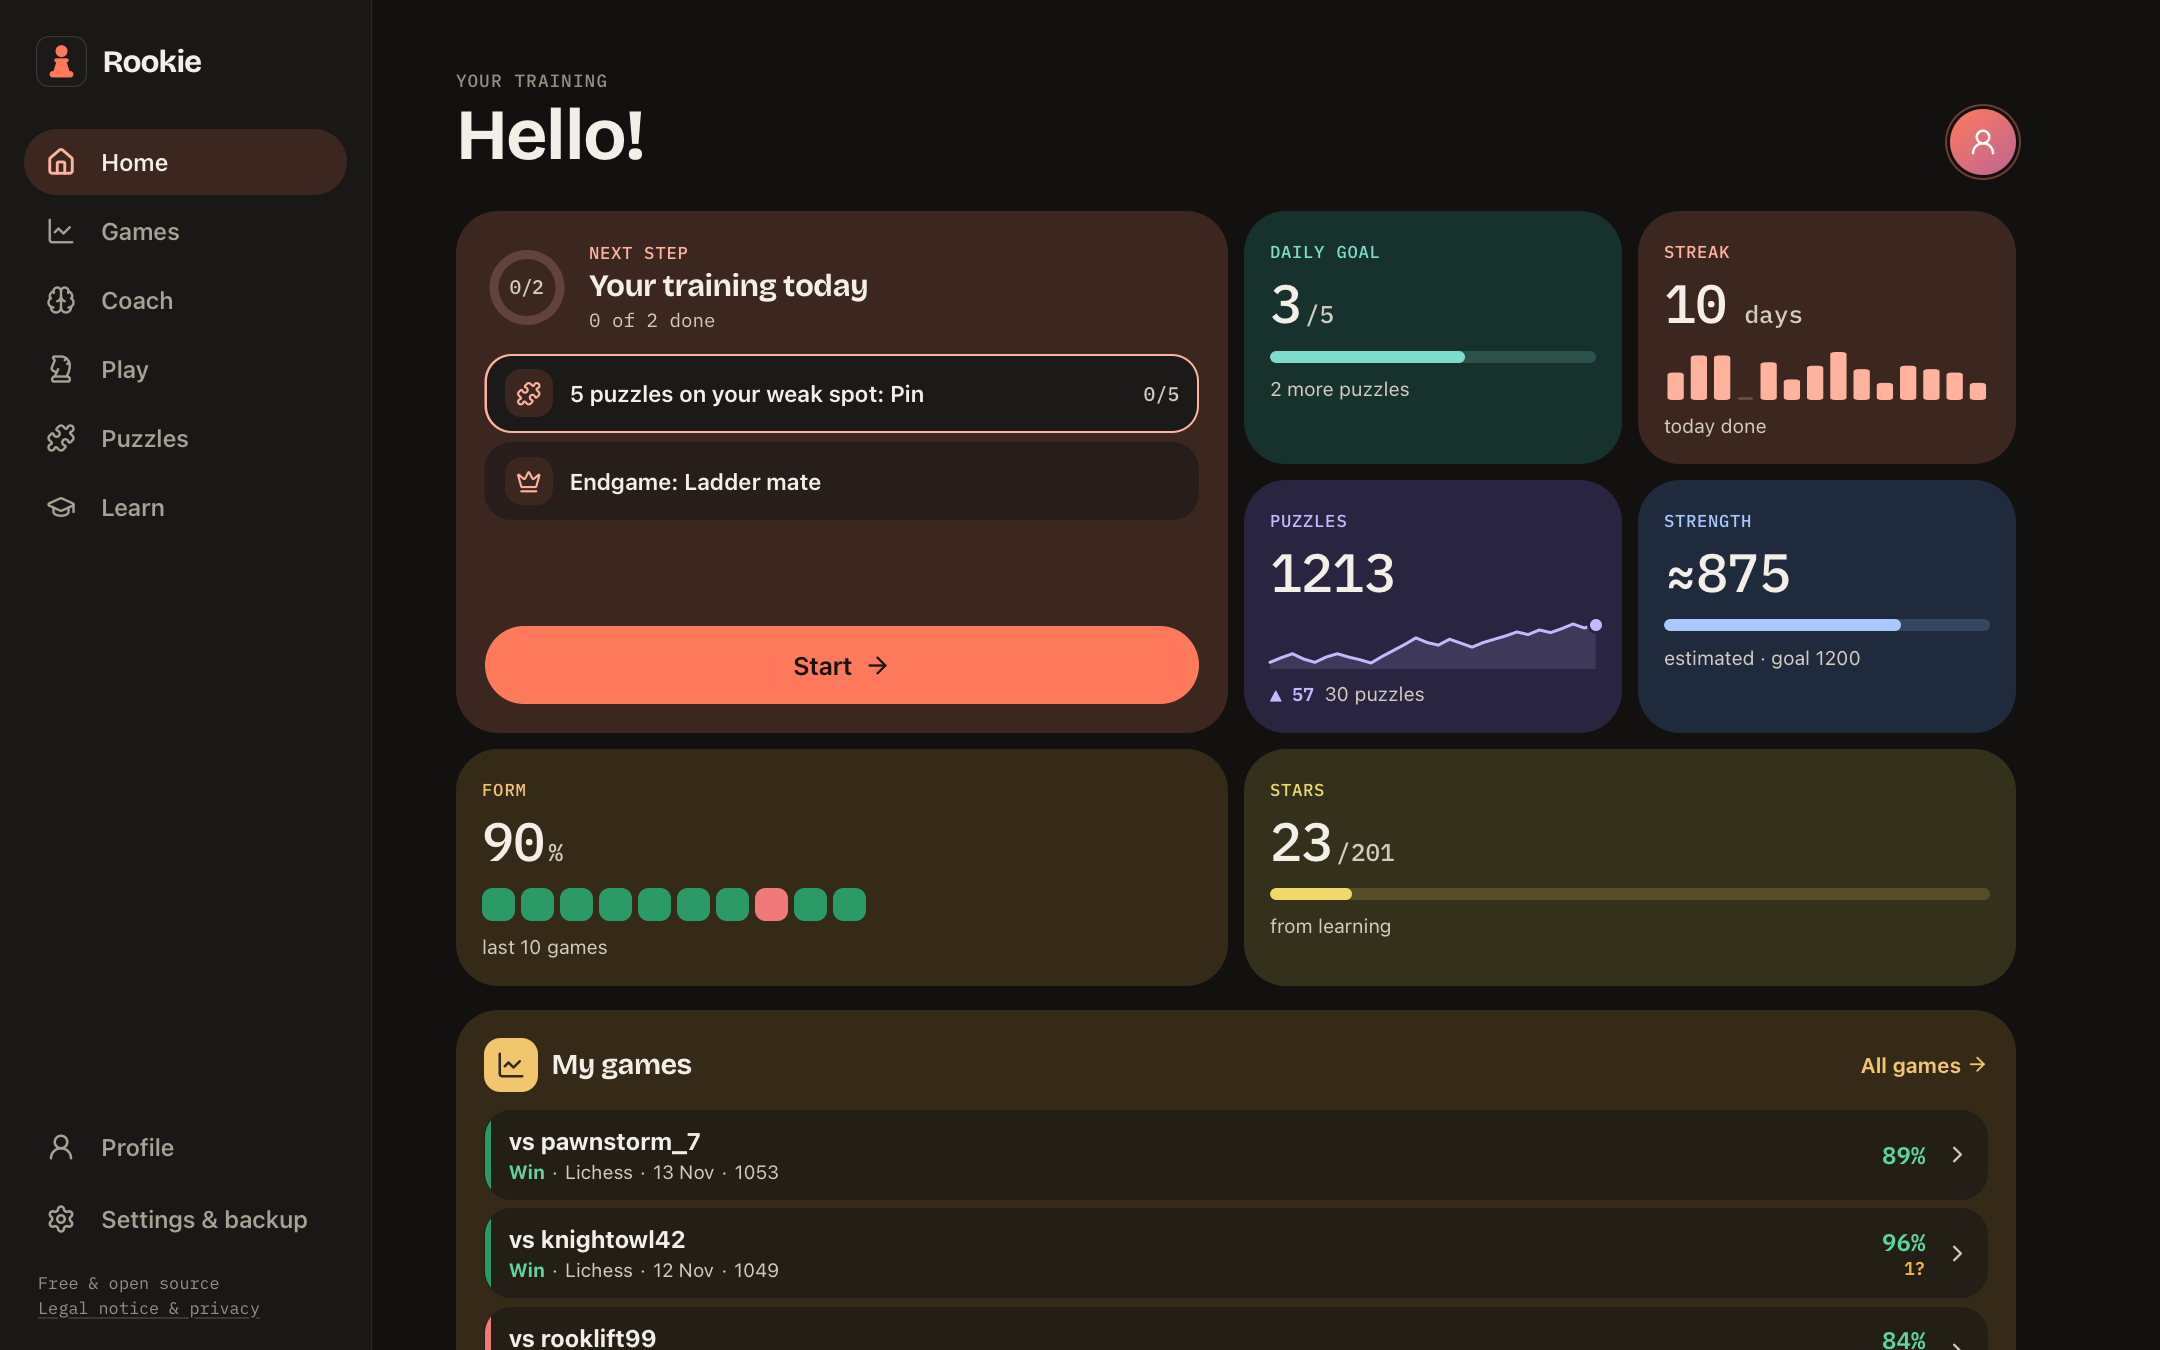
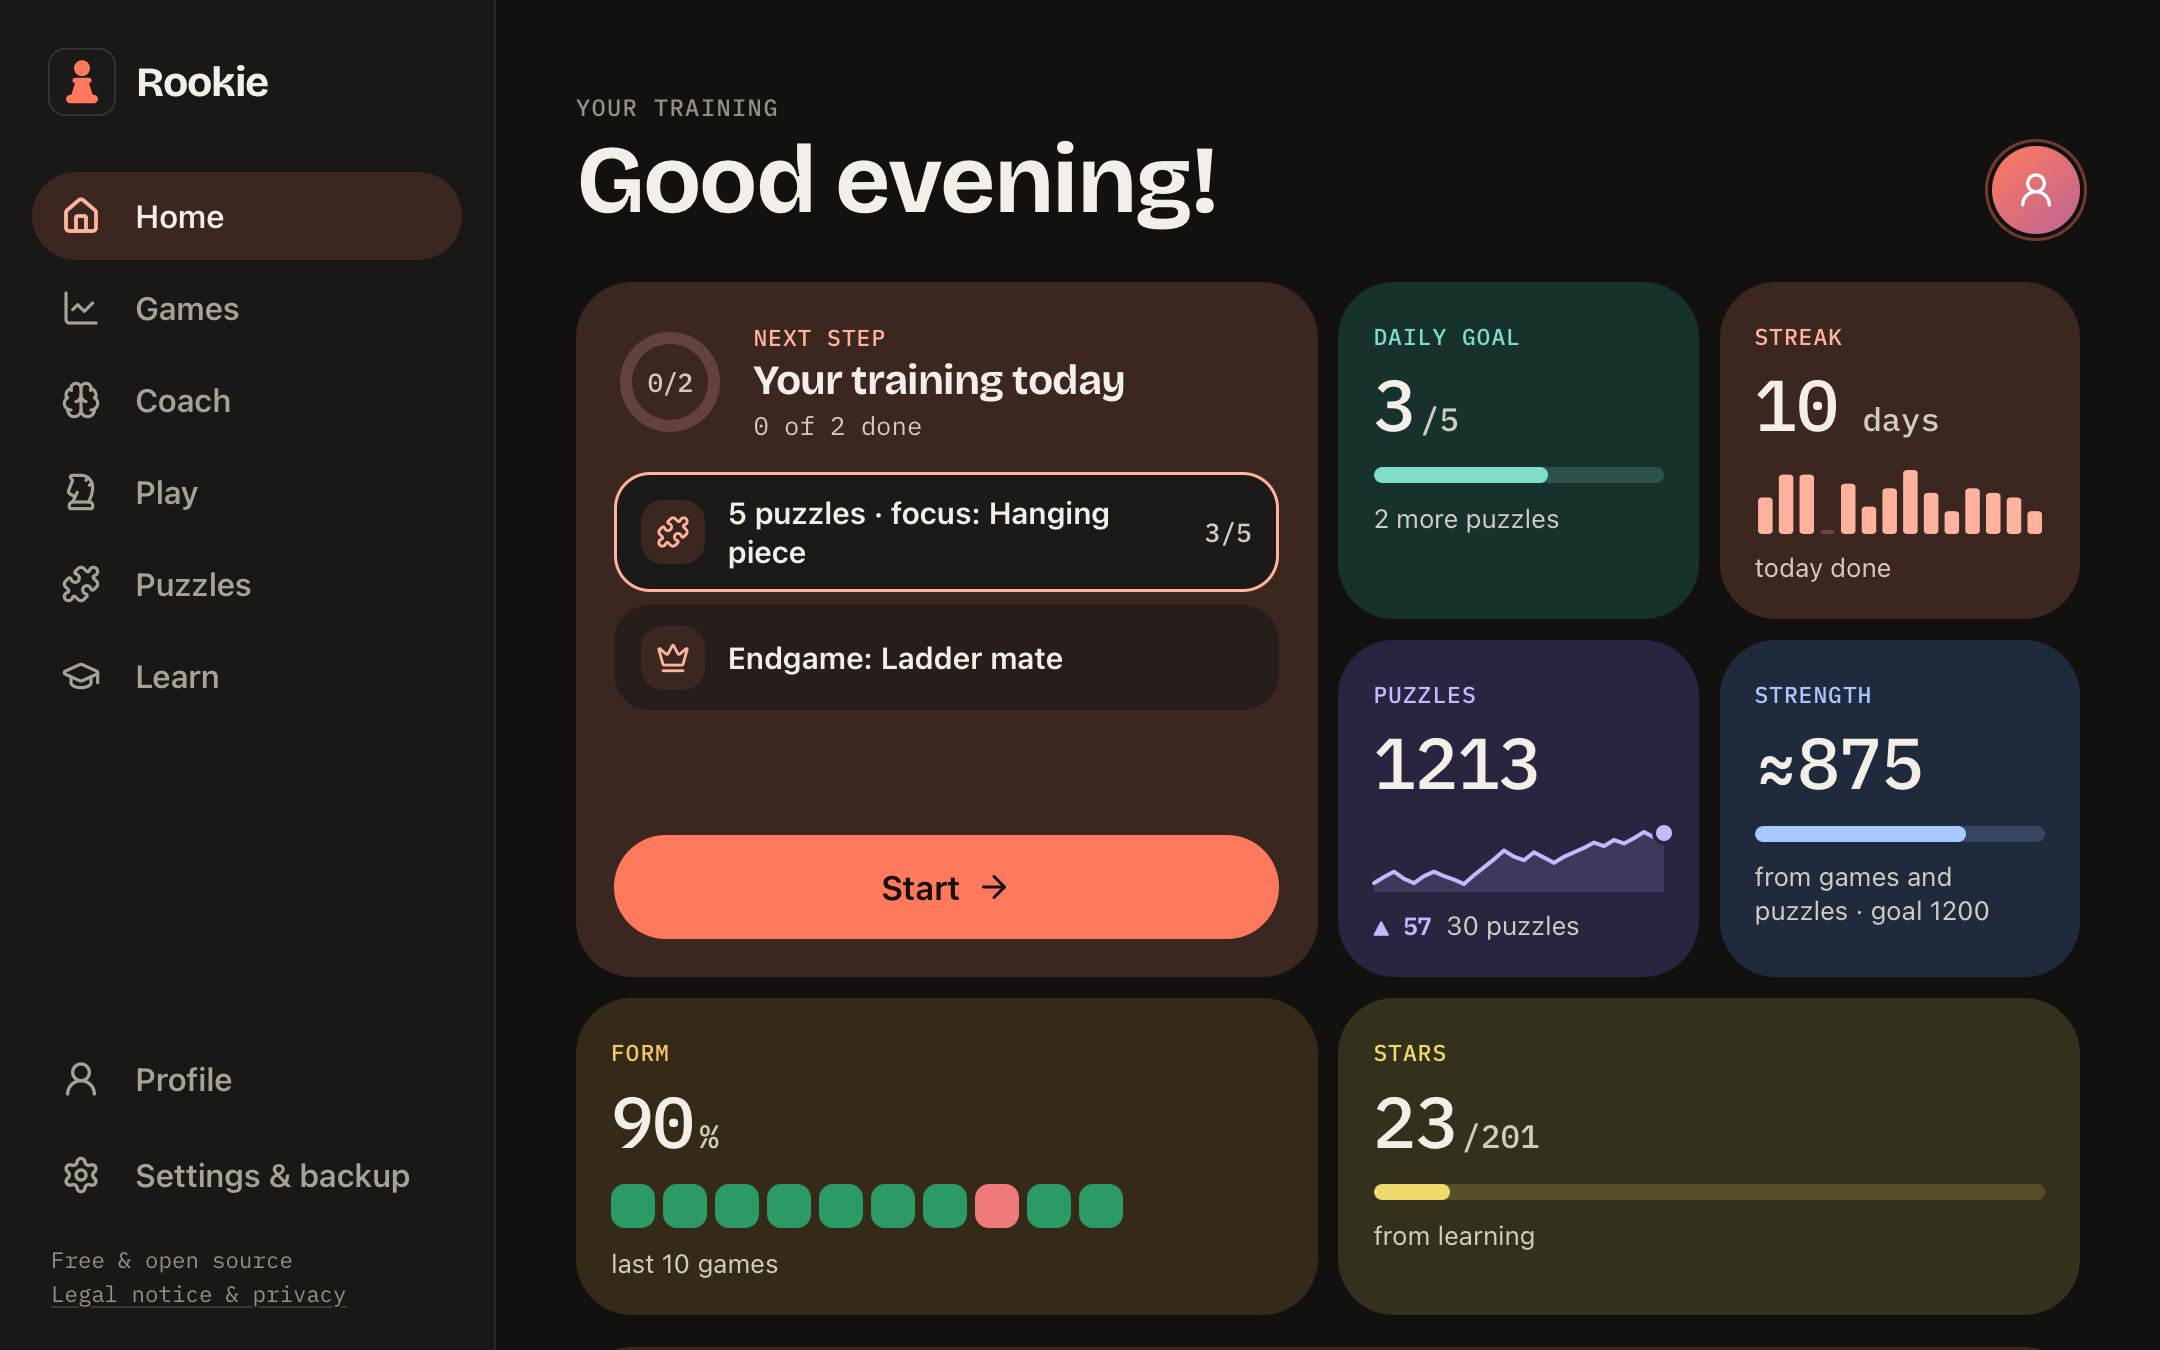
v0.3.0: README-Screenshots und Featureliste (Schwerpunkt, Tagesplan mit Partie, Sicherung zusammenführen)

diff --git a/README.md b/README.md
@@ -2,7 +2,7 @@
 
 A chess trainer for beginners as a Progressive Web App for iPhone, iPad and Mac – completely free, offline-capable, no App Store, no account, no tracking. English and German.
 
-**Live:** https://rookie.maximilianauer.at · **Version:** 0.2.1
+**Live:** https://rookie.maximilianauer.at · **Version:** 0.3.0
 
 | Home                                                                                                                                                    | Coach                                                                                                                    | Play                                                                                                   | Game review                                                                                                       |
 | ------------------------------------------------------------------------------------------------------------------------------------------------------- | ------------------------------------------------------------------------------------------------------------------------ | ------------------------------------------------------------------------------------------------------ | ----------------------------------------------------------------------------------------------------------------- |
@@ -22,9 +22,10 @@ Screenshots use generated sample data (`scripts/screenshots/`), not real games.
 
 - **Play** against 8 bots with personality (≈ 400–1650) – Stockfish 19 (WebAssembly) in the browser, hints, takebacks, optional clock
 - **Play with a coach** – feedback on every move, warnings about attacked pieces, take back mistakes with an explanation
-- **Daily plan** – a personal training plan every day, built from your weaknesses and due reviews; it is always the first tile on Home, with one clear next step
+- **Daily plan** – a personal training plan every day with one clear next step: puzzles on your focus, due reviews, a game with the coach when you haven't played for a while, and the next lesson
+- **One focus** – Rookie picks the single most important thing to work on (the mistake you make most in your own games, otherwise your weakest puzzle theme); Home and the Coach tab always name the same one
 - **Progress at a glance** – Home shows puzzle rating with trend, estimated strength on the way to 1200, daily goal, streak, form and stars as tiles
-- **Coach tab** – how you are playing right now (rating, win rate, accuracy, blunders per game), a five-sided skill profile, your last 30 games, accuracy per game and concrete things to work on
+- **Coach tab** – how you are playing right now (rating, win rate, accuracy, blunders per game), your focus and next steps, a five-sided skill profile and your last 30 games; details (rating history, accuracy per game, typical mistakes, insights, openings) in Statistics
 - **Stars** – every lesson, opening line and endgame earns up to three stars; progress per area in your profile
 - **Tactics** – fork, pin, skewer, discovered attack, back-rank mate: explained, then practised with puzzles
 - **Puzzle Storm** and **play a friend** on one device
@@ -40,7 +41,7 @@ Screenshots use generated sample data (`scripts/screenshots/`), not real games.
 - **Optional account** – passkey sign-in (no email, no password), progress synced across devices; export and delete at any time
 - **Install prompt** on phones – one-tap install on Android, step-by-step guide on iPhone/iPad
 - Calm tile-based design with pastel areas and monospace numbers; contrast checked against WCAG AA (`node scripts/contrast.mjs`)
-- Light/dark mode, English/German, 7 board themes, 6 piece sets, animation speed, 3 sound styles, backup export/import, works offline
+- Light/dark mode, English/German, 7 board themes, 6 piece sets, animation speed, 3 sound styles, backup export/import (restoring merges with your current data – nothing is lost), works offline
 
 ## Development
 
